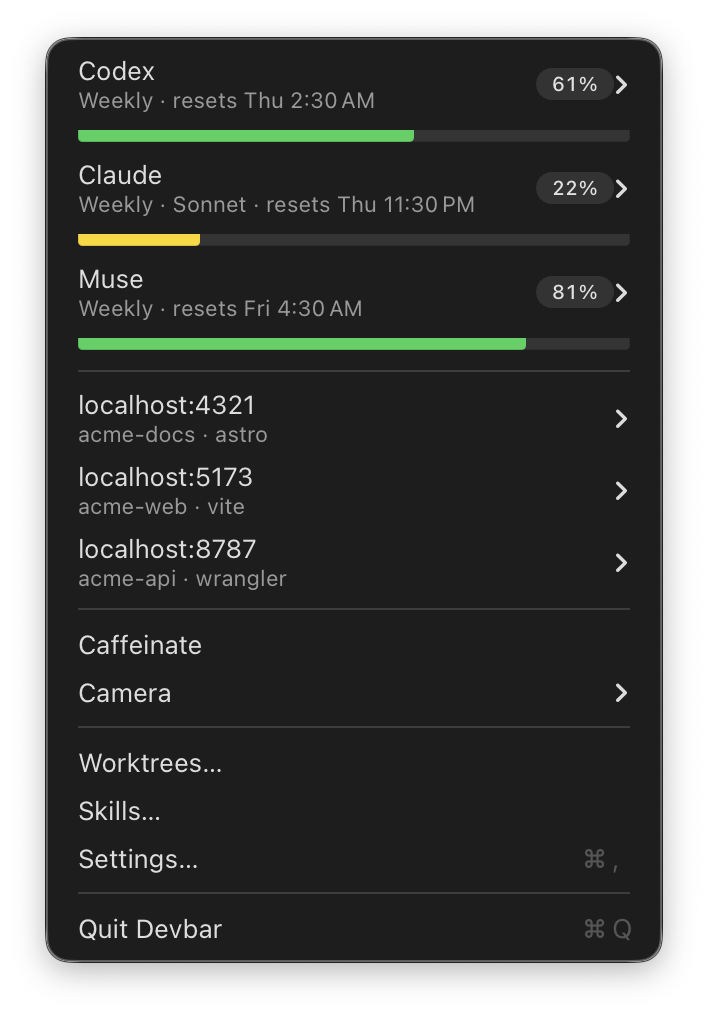
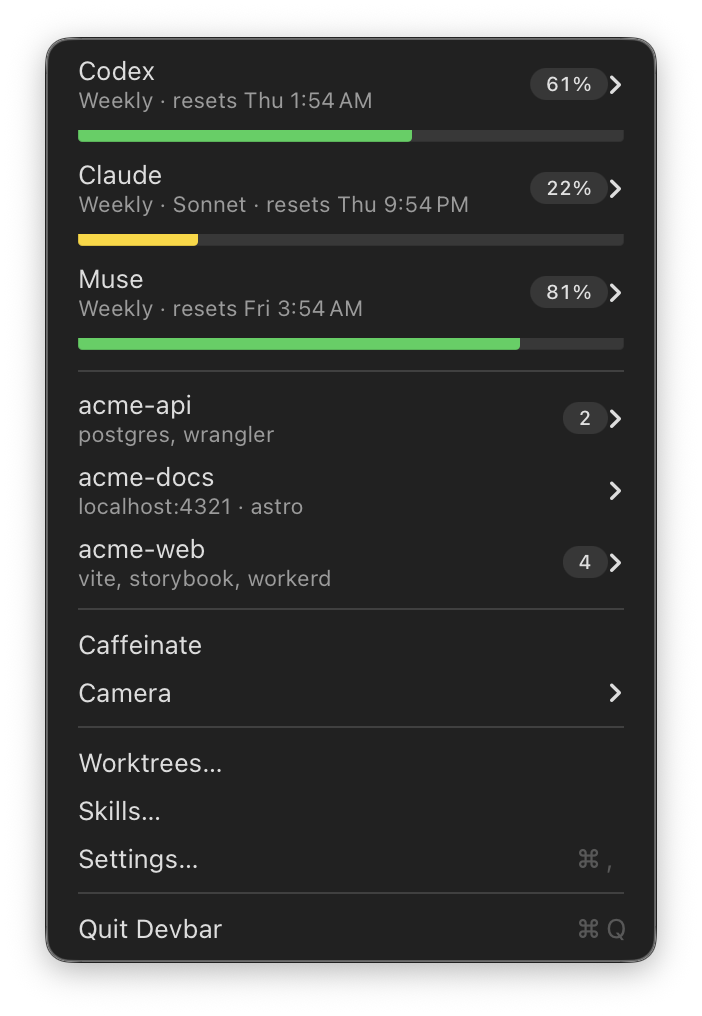
Group dev servers by project, with Stop All Processes
The dev server list grew one row per port, so a project running emulators
or workers filled the menu. The menu now shows one row per project folder:
a single port keeps its address and opens its actions directly; several
ports show a count and list in a submenu, with Stop All Processes (and
Force Stop All Processes on ⌥) at the bottom.

diff --git a/Sources/Devbar/StatusMenu.swift b/Sources/Devbar/StatusMenu.swift
@@ -2,8 +2,8 @@ import AppKit
 
 /// Native status-item menu (Battery-menu style): one summary row per
 /// provider with its tightest quota window (every window in its submenu),
-/// running dev servers, then Caffeinate / Camera, Worktrees / Skills /
-/// Settings, and Quit. All rows are stock menu items: badged rows, plus
+/// one row per project with running dev servers, then Caffeinate / Camera,
+/// Worktrees / Skills / Settings, and Quit. All rows are stock menu items: badged rows, plus
 /// native capacity indicators on their own lines. ⌥-clicking the icon
 /// also shows Refresh with the last update time, like Wi-Fi's ⌥ menu.
 @MainActor
@@ -245,15 +245,50 @@ final class StatusMenu: NSObject, NSMenuDelegate {
         ports = await PortScanner.scan(hidden: Set(SettingsStore.hiddenProcesses))
     }
 
-    /// No section header: `localhost:<port>` rows explain themselves. With
-    /// nothing running the section is left out entirely.
+    /// One row per project folder, so a project with many ports (emulators,
+    /// workers) stays one line. A lone port keeps its address in the
+    /// subtitle and opens its actions directly; several ports show their
+    /// count as the badge and list in the submenu. No section header, and
+    /// with nothing running the section is left out entirely.
     private func addPortsSection() {
-        for port in ports {
-            let row = NSMenuItem(title: "localhost:\(port.port)", action: nil, keyEquivalent: "")
-            setDetail("\(port.project) · \(port.process)", on: row)
-            row.submenu = portMenu(for: port)
+        for project in ProjectPorts.grouped(ports) {
+            let row = NSMenuItem(title: project.name, action: nil, keyEquivalent: "")
+            if project.ports.count == 1, let port = project.ports.first {
+                setDetail("localhost:\(port.port) · \(port.process)", on: row)
+                row.submenu = portMenu(for: port)
+            } else {
+                setDetail(project.processes.joined(separator: ", "), on: row)
+                row.badge = NSMenuItemBadge(count: project.ports.count)
+                row.submenu = projectMenu(for: project)
+            }
             renderedMenu.addItem(row)
         }
+    }
+
+    /// A project's ports, each with its own actions, then Stop All.
+    private func projectMenu(for project: ProjectPorts) -> NSMenu {
+        let menu = NSMenu()
+        for port in project.ports {
+            let row = NSMenuItem(title: "localhost:\(port.port)", action: nil, keyEquivalent: "")
+            setDetail(port.process, on: row)
+            row.submenu = portMenu(for: port)
+            menu.addItem(row)
+        }
+        menu.addItem(.separator())
+        menu.addItem(projectAction("Stop All Processes", #selector(stopProject), project))
+        // Holding Option swaps in Force Stop, as on a single port.
+        let force = projectAction("Force Stop All Processes", #selector(forceStopProject), project)
+        force.keyEquivalentModifierMask = .option
+        force.isAlternate = true
+        menu.addItem(force)
+        return menu
+    }
+
+    private func projectAction(_ title: String, _ action: Selector, _ project: ProjectPorts) -> NSMenuItem {
+        let item = NSMenuItem(title: title, action: action, keyEquivalent: "")
+        item.target = self
+        item.representedObject = project
+        return item
     }
 
     private func portMenu(for port: ListeningPort) -> NSMenu {
@@ -452,6 +487,21 @@ final class StatusMenu: NSObject, NSMenuDelegate {
         guard let port = sender.representedObject as? ListeningPort else { return }
         PortScanner.stop(port, force: force)
         ports.removeAll { $0.pid == port.pid }
+        rebuild()
+    }
+
+    @objc private func stopProject(_ sender: NSMenuItem) {
+        stopAll(sender, force: false)
+    }
+
+    @objc private func forceStopProject(_ sender: NSMenuItem) {
+        stopAll(sender, force: true)
+    }
+
+    private func stopAll(_ sender: NSMenuItem, force: Bool) {
+        guard let project = sender.representedObject as? ProjectPorts else { return }
+        PortScanner.stopAll(project, force: force)
+        ports.removeAll { $0.directory == project.directory }
         rebuild()
     }
 

diff --git a/Sources/Devbar/PortScanner.swift b/Sources/Devbar/PortScanner.swift
@@ -13,6 +13,38 @@ struct ListeningPort: Sendable, Equatable {
     var url: URL { URL(string: "http://localhost:\(port)")! }
 }
 
+/// The ports one project folder is listening on: a single menu row.
+struct ProjectPorts: Sendable, Equatable {
+    var directory: String
+    /// Sorted by port number.
+    var ports: [ListeningPort]
+
+    var name: String { (directory as NSString).lastPathComponent }
+
+    /// Process names in port order, each listed once.
+    var processes: [String] {
+        var seen = Set<String>()
+        return ports.map(\.process).filter { seen.insert($0).inserted }
+    }
+
+    /// One process can listen on several ports; stopping signals each once.
+    var pids: [pid_t] {
+        var seen = Set<pid_t>()
+        return ports.map(\.pid).filter { seen.insert($0).inserted }
+    }
+
+    /// One group per project folder, sorted by name, then path so two
+    /// folders with the same name keep a stable order.
+    static func grouped(_ ports: [ListeningPort]) -> [ProjectPorts] {
+        Dictionary(grouping: ports, by: \.directory)
+            .map { ProjectPorts(directory: $0.key, ports: $0.value.sorted { $0.port < $1.port }) }
+            .sorted {
+                let order = $0.name.localizedCaseInsensitiveCompare($1.name)
+                return order == .orderedSame ? $0.directory < $1.directory : order == .orderedAscending
+            }
+    }
+}
+
 /// Lists dev servers: TCP listeners started from a project folder. A GUI
 /// for `lsof -iTCP -sTCP:LISTEN`, filtered so system services and apps
 /// (launched with `/` or their own bundle as working directory) stay out.
@@ -57,6 +89,11 @@ enum PortScanner {
     /// SIGTERM asks the server to shut down cleanly; SIGKILL can't be ignored.
     static func stop(_ port: ListeningPort, force: Bool) {
         kill(port.pid, force ? SIGKILL : SIGTERM)
+    }
+
+    /// Stops every process listening in a project folder.
+    static func stopAll(_ project: ProjectPorts, force: Bool) {
+        for pid in project.pids { kill(pid, force ? SIGKILL : SIGTERM) }
     }
 
     private static func lsof() -> String? {

diff --git a/README.md b/README.md
@@ -47,7 +47,7 @@ Set `CODESIGN_IDENTITY` to override the Developer ID signing identity used by `b
 - Refreshes every 10 minutes and whenever the menu opens. Transient failures (network, 429, 5xx) keep last-good data; durable ones (logout, expired) replace it.
 - Menu rows are stock `NSMenuItem`s: one row per provider showing its tightest window (lowest remaining) with the window and reset time as the subtitle and the percentage as a badge, or **Idle** when no quota is in use. Its submenu has a section header with the plan and masked sign-in email, then every window with the percentage and reset time as one badge. Each quota bar is a native `NSLevelIndicator` inside a resizing menu view, inset to align with the menu text; AppKit colors it (yellow under 25%, red under 10%).
 - Refresh is a hidden item (`allowsKeyEquivalentWhenHidden`), so ⌘R works while the menu is open; it shows with the last update time when ⌥ is held as the menu opens (`NSEvent.modifierFlags` in `menuWillOpen`), and while a provider is waiting on Keychain approval, since that message asks for Refresh.
-- **Dev servers** come from `lsof -nP -iTCP -sTCP:LISTEN` each time the menu opens. A listener counts when its process was started from a project folder; launchd starts system services and apps in `/` or inside their bundle, so they're left out. With none running, the section is left out. Stop sends `SIGTERM`, Force Stop (⌥) sends `SIGKILL`; Copy PID is the ⌥ alternate of Copy URL.
+- **Dev servers** come from `lsof -nP -iTCP -sTCP:LISTEN` each time the menu opens. A listener counts when its process was started from a project folder; launchd starts system services and apps in `/` or inside their bundle, so they're left out. Listeners are grouped by working directory into one row per project (`ProjectPorts.grouped`): a single port opens its actions directly, several ports list in a submenu with the count as the row's badge. With none running, the section is left out. Stop sends `SIGTERM`, Force Stop (⌥) sends `SIGKILL`; Stop All Processes and Force Stop All Processes (⌥) signal each of the project's processes once; Copy PID is the ⌥ alternate of Copy URL.
 - **Camera** reads `~/Library/Application Support/com.apple.TCC/TCC.db` read-only (needs Full Disk Access) and revokes with `tccutil reset Camera <bundle id>`. macOS has no public API to grant access. Apps seen once are remembered in `camera.knownApps` so they still show after a reset.
 - **Worktrees** scan only while the window is open: walk the home folder for repositories (skipping `~/Library`, hidden folders, and build/dependency folders; Spotlight doesn't index `.git`), then `git worktree list --porcelain` per repository. Last used is the newest of the folder and git's `HEAD`, `index`, and `logs/HEAD` for it; `git status` runs with optional locks off so the scan never counts as use. A branch is merged when `git merge-tree --write-tree` against the default branch (the main checkout's branch and `origin/HEAD`) gives the default branch's own tree, which covers regular, rebase, and squash merges. Delete runs `git worktree remove --force --force`, then `git branch -D` for merged branches when `worktrees.deleteMergedBranches` is on.
 - **Skills** scan only while the window is open. Global skill folders and who reads them come from each agent's docs: `~/.claude/skills` (Claude Code, Cursor, OpenCode), `~/.agents/skills` (Codex, Cursor, Copilot, Gemini CLI, OpenCode), `~/.codex/skills` and its `.system` folder (Codex's deprecated but still-read location; Cursor too), `/etc/codex/skills`, and each agent's own folder. An agent counts as installed when its settings folder exists. Claude Code folders are scanned one level deep and skip `synced`; Codex folders are scanned up to four levels deep. Hidden folders are skipped. Symlinks resolve to one row per real folder. Claude Code's claude.ai skills (`~/.claude/skills/synced/<account>/`) and synced plugins come from the most recently synced account; marketplace plugins come from `installed_plugins.json` when `enabledPlugins` turns them on. `npx skills` installs are matched by name in `~/.agents/.skill-lock.json`. Same-named skills in different folders are compared by a SHA-256 of their files. Checks follow the Agent Skills spec. Move to Trash uses `FileManager.trashItem` for the skill's links, and for its folder only when the folder sits in a skill folder.
